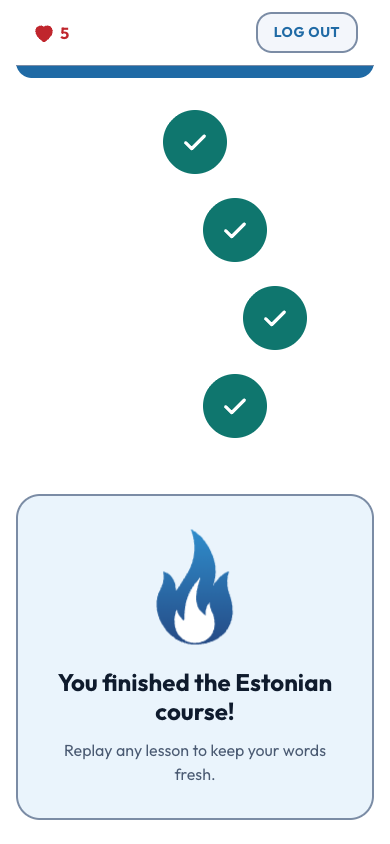
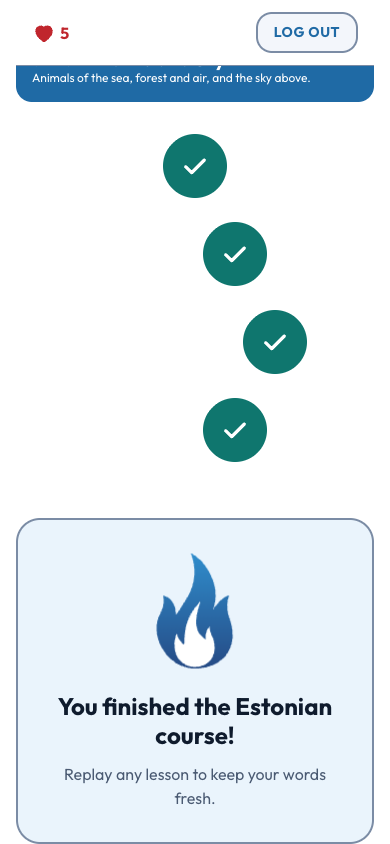
12: Verify the learning-path finished card and the placement note

Changed region(s): [[0.0308, 0.5853, 0.9846, 0.955], [0.0308, 0.0616, 0.9538, 0.5545], [0.0308, 0.955, 0.9846, 1.0]]

diff --git a/docs/verification/pw-shot-report.md b/docs/verification/pw-shot-report.md
@@ -49,7 +49,7 @@ Note: the app header content row is 640 wide at 1280 on `/login` (spec says "the
 | empty (`empty`) | 1280 | state column 480 (x400), mascot 120, offset 96, role="status", blue flame | 480, blue flame | pass | `pw-shot-learn-empty-1280-{light,dark}.png` |
 | empty | 390 | column 358 inside 390, mascot 96, offset 48, blue flame | 358 | pass | `pw-shot-learn-empty-390-{light,dark}.png` |
 
-Not covered here: the "finished" card and the placement note (not in the task's state list; `pw-shot-learn-finished-390-light.png` from an earlier task is stale and was not re-verified).
+Not covered here: the "finished" card and the placement note (not in the task's state list). Verified later, see "Plan 04: learning path finished card and placement note" below.
 
 ## Exercise (`exercise-session.md` Layout: top bar about 1320 clamped to window minus 48, question and cards 790, cards about 256x334 with 12px gaps, bar 190, feedback 185; mobile 358, stacked cards 88 high, feedback 200)
 
@@ -99,6 +99,19 @@ In headless Chromium there is no Estonian voice and the Estonian audio clips do 
 | route error | 390 | not re-measured live; screenshot shows the message wrapping inside the 358 column, no overflow | 358 | not re-measured; screenshot only | `pw-shot-routeerror-390-{light,dark}.png` (reused) |
 
 Reuse justification: `src/router.tsx` and `router.module.scss` have no commit since task 7 (15:41); the only later change touching shared pieces is task 19's red-flame mascot, which these screens do not render (the header brand mark is the blue flame). The route error could not be triggered live without editing `src` or aborting the lazy chunk request (no network-abort tool is allowed here), so its widths were not re-measured; the existing screenshots were opened and match the spec layout.
+
+## Plan 04: learning path finished card and placement note (`learning-path.md` Layout: "Placement note and finished card: fill the column width; the note sits above the first unit with 16px below it"; column 640, mobile 358)
+
+Reached live (dev server with mocks, own port, Playwright MCP): the profile of ada@example.com was reset to onboarding not completed, then "How much Estonian do you know?" the fourth option ("I can talk about various topics"), "Find my level", CONTINUE gave `/learn` with "We recommend starting at Unit 4 based on your answer." and "Got it". "Got it" removed the note; after a reload it did not return (`placementNoteDismissed` true, no "Got it" button). The finished card was reached by seeding `completedLessonIds` with all 24 lesson ids from `/api/course` in the `profiles` localStorage entry. Light and dark were switched with the header toggle.
+
+| State | Width | Measured (light and dark identical) | Spec | Result | Screenshot |
+|---|---|---|---|---|---|
+| placement note | 1280 | note 640x69 at x320, nav starts 16px below the note, no horizontal scroll, text and "Got it" (86x41) as spec | column 640, 16px below | pass | `pw-shot-learn-placementnote-1280-{light,dark}.png` |
+| placement note | 390 | note 358x70 at x16 (text wraps to two lines, "Got it" 86x41), nav 358 wide 16px below, scrollWidth equals 390 | column 358, 16px below | pass | `pw-shot-learn-placementnote-390-{light,dark}.png` |
+| finished card | 1280 | card 640x273 at x320 (region, h2 "You finished the Estonian course!", p "Replay any lesson to keep your words fresh."), 24px below the last unit, no horizontal scroll; flame image 128 attribute (136 rendered by the celebrating animation) with stops `#2f8dcc` and `#254a85` (blue) | fills the 640 column, blue flame | pass | `pw-shot-learn-finished-1280-{light,dark}.png` |
+| finished card | 390 | card 358x326 at x16, 24px below the last unit, no horizontal scroll, same blue flame | fills the 358 column | pass | `pw-shot-learn-finished-390-{light,dark}.png` (the stale `-390-light` file was re-taken) |
+
+Mismatches: none. Notes: the card sits after the last unit (the spec gives no gap there; 24px measured). The page opens scrolled to the recommended unit (the note is off screen above), so the note screenshots were taken after `scrollTo(0, 0)`. The note and the card have no tabs of their own; the note is `role="status"`. Typed copy matched the spec exactly in all four states.
 
 ## Mismatches, with the spec line
 
